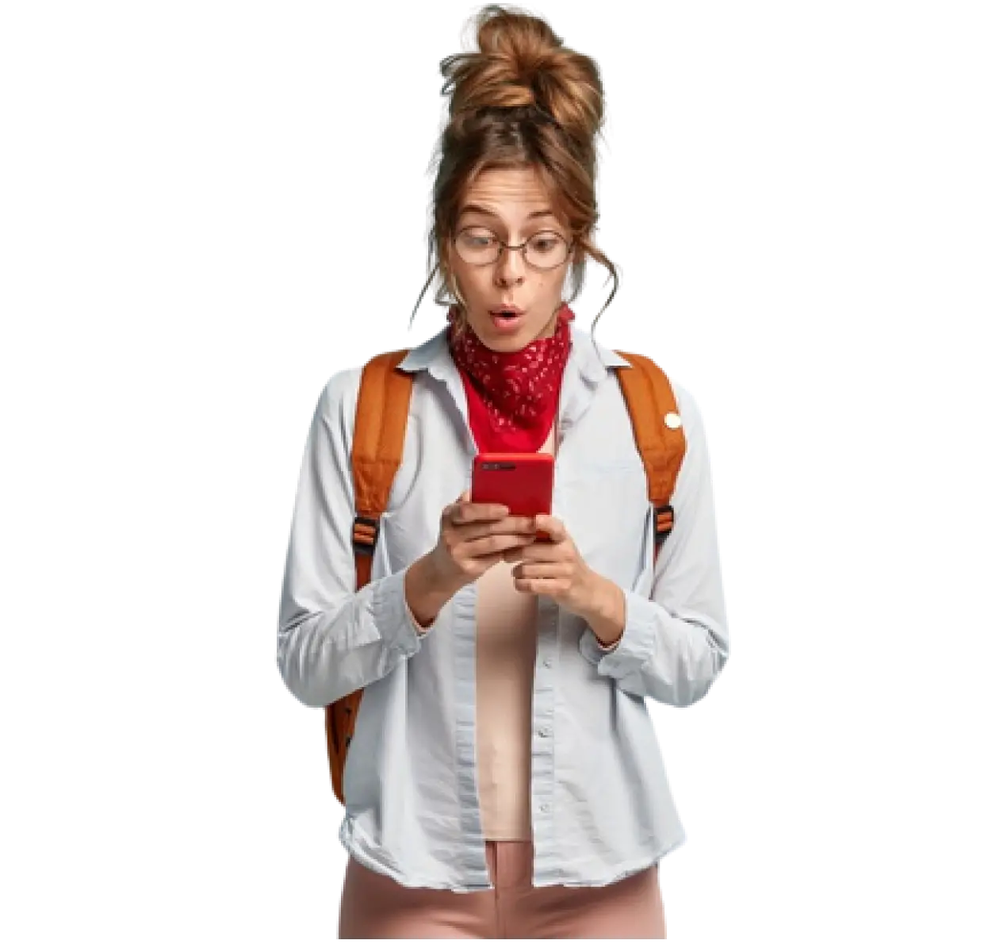
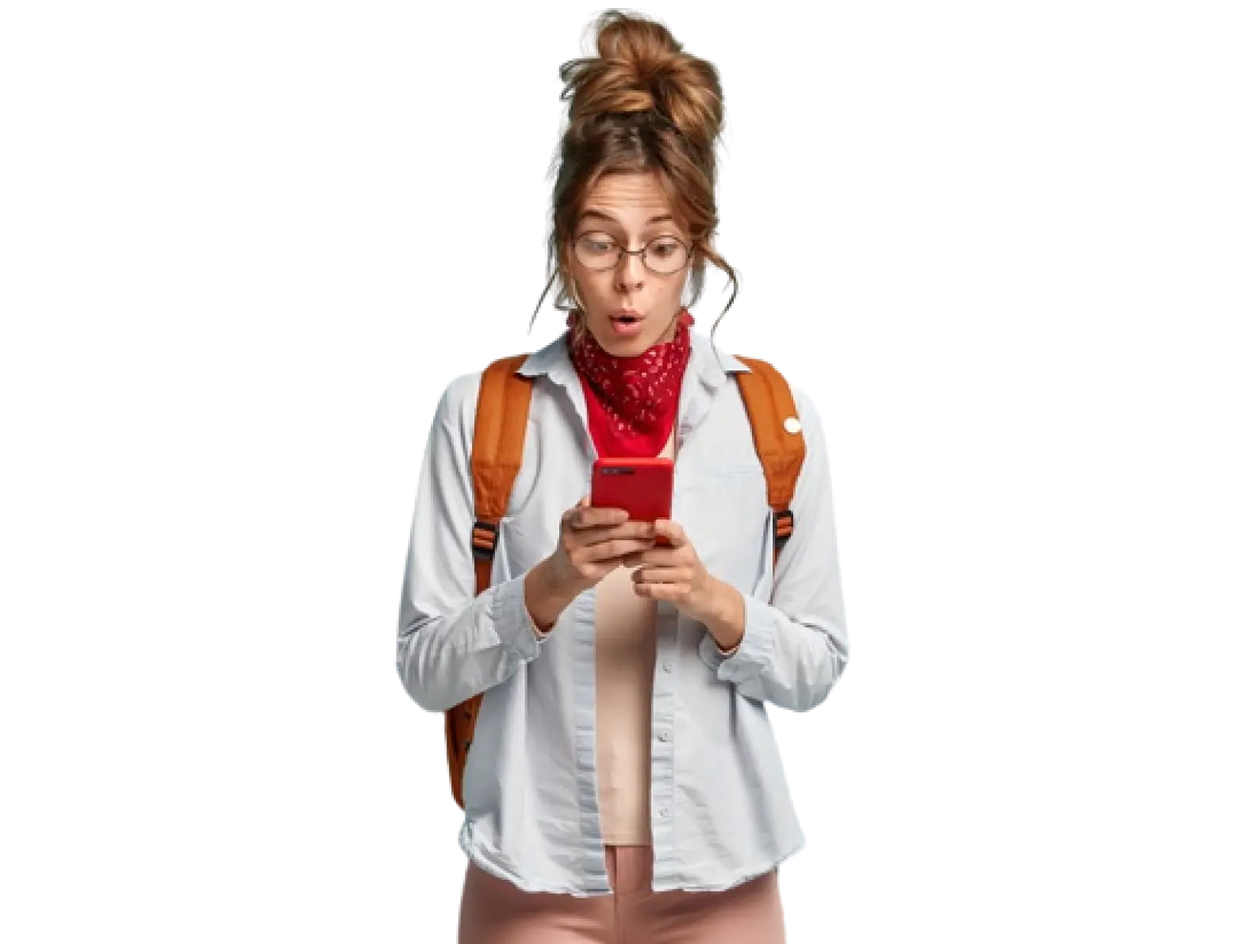
fixed img girl

Changed region(s): [[0.2764, 0.0, 0.737, 1.0]]

diff --git a/build/css/style.min.css b/build/css/style.min.css
@@ -1,2 +1,2 @@
-/*! normalize.css v8.0.1 | MIT License | github.com/necolas/normalize.css */html{line-height:1.15;-webkit-text-size-adjust:100%}details,main{display:block}h1{font-size:2em}hr{-webkit-box-sizing:content-box;box-sizing:content-box;height:0;overflow:visible}code,kbd,pre,samp{font-family:monospace,monospace;font-size:1em}a{background-color:rgba(0,0,0,0);text-decoration:none;color:inherit}abbr[title]{border-bottom:none;text-decoration:underline;-webkit-text-decoration:underline dotted;text-decoration:underline dotted}b,strong{font-weight:bolder}small{font-size:80%}sub,sup{font-size:75%;line-height:0;position:relative;vertical-align:baseline}sub{bottom:-.25em}sup{top:-.5em}img{border-style:none}button,input,optgroup,select,textarea{font-family:inherit;font-size:100%;line-height:1.15;margin:0}button,input{overflow:visible}button,select{text-transform:none}[type=button],[type=reset],[type=submit],button{-webkit-appearance:button}[type=button]::-moz-focus-inner,[type=reset]::-moz-focus-inner,[type=submit]::-moz-focus-inner,button::-moz-focus-inner{border-style:none;padding:0}[type=button]:-moz-focusring,[type=reset]:-moz-focusring,[type=submit]:-moz-focusring,button:-moz-focusring{outline:ButtonText dotted 1px}fieldset{padding:.35em .75em .625em}legend{-webkit-box-sizing:border-box;box-sizing:border-box;color:inherit;display:table;max-width:100%;padding:0;white-space:normal}progress{vertical-align:baseline}textarea{overflow:auto}[type=checkbox],[type=radio]{-webkit-box-sizing:border-box;box-sizing:border-box;padding:0}[type=number]::-webkit-inner-spin-button,[type=number]::-webkit-outer-spin-button{height:auto}[type=search]{-webkit-appearance:textfield;outline-offset:-2px}[type=search]::-webkit-search-decoration{-webkit-appearance:none}::-webkit-file-upload-button{-webkit-appearance:button;font:inherit}summary{display:list-item}[hidden],template{display:none}*,::after,::before{-webkit-box-sizing:border-box;box-sizing:border-box}h1,h2,h3,h4,h5,h6,li,ol,p,ul{margin:0;padding:0}img,svg{width:100%;height:100%;-o-object-fit:cover;object-fit:cover}@font-face{font-family:decorlz;src:local("decorlz"),url(../fonts/decorlz.woff2) format("woff2"),url(../fonts/decorlz.woff) format("woff");font-weight:400;font-style:normal;font-display:swap}@-webkit-keyframes spin{0%{-webkit-transform:rotate(0);transform:rotate(0)}100%{-webkit-transform:rotate(360deg);transform:rotate(360deg)}}@keyframes spin{0%{-webkit-transform:rotate(0);transform:rotate(0)}100%{-webkit-transform:rotate(360deg);transform:rotate(360deg)}}@-webkit-keyframes spin-reverse{0%{-webkit-transform:rotate(calc(-45deg * var(--r)));transform:rotate(calc(-45deg * var(--r)))}100%{-webkit-transform:rotate(calc(-360deg + -45deg * var(--r)));transform:rotate(calc(-360deg + -45deg * var(--r)))}}@keyframes spin-reverse{0%{-webkit-transform:rotate(calc(-45deg * var(--r)));transform:rotate(calc(-45deg * var(--r)))}100%{-webkit-transform:rotate(calc(-360deg + -45deg * var(--r)));transform:rotate(calc(-360deg + -45deg * var(--r)))}}body{margin:0;font-family:Poppins,sans-serif;font-style:normal;font-weight:500;font-size:15px;line-height:26px;color:#7c7c7c;background:#ecf7f3}.container{max-width:1113px;margin:0 auto}.header{position:relative;padding:30px 0;background:#ecf7f3}.header__wrapper{position:relative;display:-webkit-box;display:-ms-flexbox;display:flex;-webkit-box-pack:justify;-ms-flex-pack:justify;justify-content:space-between;-webkit-box-align:center;-ms-flex-align:center;align-items:center}.header__btn{display:inline-block;padding:9px 23px;margin:0;border:0;border-radius:20px;cursor:pointer;-webkit-appearance:none;-moz-appearance:none;appearance:none;display:-webkit-box;display:-ms-flexbox;display:flex;-webkit-box-pack:center;-ms-flex-pack:center;justify-content:center;-webkit-box-align:center;-ms-flex-align:center;align-items:center;background:#48b774;color:#fff;font-size:16px;line-height:24px}.header__btn:hover{-webkit-box-shadow:2px 2px8px rgba(0,0,0,.25);box-shadow:2px 2px8px rgba(0,0,0,.25);-webkit-box-shadow:0 2px 4px rgba(0,0,0,.25);box-shadow:0 2px 4px rgba(0,0,0,.25)}.header__menu-btn{padding:0;margin:0;border:0;background-color:rgba(0,0,0,0);border-radius:0;cursor:pointer;-webkit-appearance:none;-moz-appearance:none;appearance:none;display:none}.logo{display:-webkit-box;display:-ms-flexbox;display:flex;-webkit-box-align:center;-ms-flex-align:center;align-items:center}.logo__icon{width:40px;height:40px;margin-right:8px}.logo__text{font-size:25px;line-height:38px;color:#2d2d2d}.menu{display:-webkit-box;display:-ms-flexbox;display:flex;-webkit-box-pack:justify;-ms-flex-pack:justify;justify-content:space-between;list-style:none;width:365px;height:24px}.menu__link{position:relative;font-weight:400;font-size:16px;line-height:24px;color:#4a4a4a}.menu__link::before{content:"";display:block;pointer-events:none;position:absolute;bottom:-4px;left:-16px;opacity:0;width:21px;height:2px;background:#fb9b69;-webkit-transition:.5s;-o-transition:.5s;transition:.5s}.menu__link:hover.menu__link::before{opacity:1;left:50%;-webkit-transform:translateX(-50%);-ms-transform:translateX(-50%);transform:translateX(-50%);-webkit-transition:.5s;-o-transition:.5s;transition:.5s}.homepage{padding:88px 0 0;overflow:hidden}.homepage__wrapper{position:relative;display:-webkit-box;display:-ms-flexbox;display:flex;-webkit-box-pack:justify;-ms-flex-pack:justify;justify-content:space-between}.homepage__block-text{max-width:597px}.homepage__title{font-weight:700;font-size:48px;line-height:65px;color:#2d2d2d;width:474px;margin-bottom:20px}.homepage__title span{color:#fb9b69}.homepage__description{margin-bottom:30px}.homepage__btn{display:inline-block;padding:9px 23px;margin:0 0 50px;border:0;border-radius:20px;cursor:pointer;-webkit-appearance:none;-moz-appearance:none;appearance:none;display:-webkit-box;display:-ms-flexbox;display:flex;-webkit-box-pack:center;-ms-flex-pack:center;justify-content:center;-webkit-box-align:center;-ms-flex-align:center;align-items:center;background:#48b774;color:#fff;font-size:16px;line-height:24px}.homepage__btn:hover{-webkit-box-shadow:2px 2px8px rgba(0,0,0,.25);box-shadow:2px 2px8px rgba(0,0,0,.25);-webkit-box-shadow:0 2px 4px rgba(0,0,0,.25);box-shadow:0 2px 4px rgba(0,0,0,.25)}.homepage__form{margin-bottom:62px}.form-search{position:relative;width:100%;height:62px;-webkit-box-shadow:0 20px 30px rgba(222,222,222,.25);box-shadow:0 20px 30px rgba(222,222,222,.25);border-radius:100px;overflow:hidden}.form-search__input{padding:21px 6px 22px 40px;width:100%;height:100%;outline:0;border:1px solid transparent;font-weight:400;font-size:16px;line-height:19px;letter-spacing:.01em;border-radius:100px;color:inherit;-webkit-transition:.3s;-o-transition:.3s;transition:.3s}.form-search__input::-webkit-input-placeholder{font-family:Roboto,sans-serif;color:#a2a2a2}.form-search__input::-moz-placeholder{font-family:Roboto,sans-serif;color:#a2a2a2}.form-search__input:-ms-input-placeholder{font-family:Roboto,sans-serif;color:#a2a2a2}.form-search__input::-ms-input-placeholder{font-family:Roboto,sans-serif;color:#a2a2a2}.form-search__input::placeholder{font-family:Roboto,sans-serif;color:#a2a2a2}.form-search__input:hover{border:1px solid #fb9b69;-webkit-transition:.3s;-o-transition:.3s;transition:.3s}.form-search__input:focus{border:1px solid #48b774;-webkit-transition:.3s;-o-transition:.3s;transition:.3s}.form-search__btn{display:inline-block;padding:15px;margin:0;border:0;border-radius:50%;cursor:pointer;-webkit-appearance:none;-moz-appearance:none;appearance:none;width:55px;height:55px;position:absolute;top:50%;right:6px;-webkit-transform:translateY(-50%);-ms-transform:translateY(-50%);transform:translateY(-50%);background:#48b774;fill:#fff;stroke:#fff}.form-search__btn:hover{-webkit-box-shadow:0 2px 4px rgba(0,0,0,.25);box-shadow:0 2px 4px rgba(0,0,0,.25)}.users{display:-webkit-box;display:-ms-flexbox;display:flex;-webkit-box-align:center;-ms-flex-align:center;align-items:center;margin-bottom:20px}.users__avatars{display:-webkit-box;display:-ms-flexbox;display:flex;margin-right:12px}.users__icon{position:relative;width:38px;height:38px;border:3px solid #fff;border-radius:50%}.users__icon:not(:first-child){margin-left:-16px}.users__icon_1{z-index:3}.users__icon_2{z-index:2}.users__icon_3{z-index:1}.users__icon_4{padding:7px;z-index:0;background:#ff8345}.users__link{font-family:Roboto,sans-serif;color:#fd905a}.users__link:hover{border-bottom:1px dotted #48b774}.animate{position:relative;display:-webkit-box;display:-ms-flexbox;display:flex;-webkit-box-pack:center;-ms-flex-pack:center;justify-content:center;width:100%}.animate__circle{position:absolute;top:-25px;right:0;display:-webkit-box;display:-ms-flexbox;display:flex;-webkit-box-pack:center;-ms-flex-pack:center;justify-content:center;-webkit-box-align:center;-ms-flex-align:center;align-items:center;width:450px;height:450px;border:2px solid #e8e8e8;border-radius:50%;list-style:none;-webkit-transform-origin:center;-ms-transform-origin:center;transform-origin:center;-webkit-animation-duration:8s;animation-duration:8s;-webkit-animation-iteration-count:infinite;animation-iteration-count:infinite;-webkit-animation-timing-function:linear;animation-timing-function:linear}.animate__circle-middle{width:280px;height:280px;border-radius:50%;background:#48b774}.animate__flag{position:absolute;left:-15px;-webkit-transform:all .5s;-ms-transform:all .5s;transform:all .5s;width:30px;height:30px;border:5px solid #fff;border-radius:50%;-webkit-transition:.5s;-o-transition:.5s;transition:.5s;-webkit-transform:rotate(calc(45deg * var(--r)));-ms-transform:rotate(calc(45deg * var(--r)));transform:rotate(calc(45deg * var(--r)));-webkit-transform-origin:240px;-ms-transform-origin:240px;transform-origin:240px;scale:0;-webkit-transition-delay:calc(.4s*var(--i));-o-transition-delay:calc(.4s*var(--i));transition-delay:calc(.4s*var(--i))}.animate__flag img{-webkit-filter:drop-shadow(0 10px 30px rgba(148, 148, 148, .1));filter:drop-shadow(0 10px 30px rgba(148, 148, 148, .1));-webkit-transform:rotate(calc(-45deg * var(--r)));-ms-transform:rotate(calc(-45deg * var(--r)));transform:rotate(calc(-45deg * var(--r)));-webkit-transform-origin:center;-ms-transform-origin:center;transform-origin:center;-webkit-animation-duration:8s;animation-duration:8s;-webkit-animation-iteration-count:infinite;animation-iteration-count:infinite;-webkit-animation-timing-function:linear;animation-timing-function:linear}.animate__flag:nth-of-type(2){left:-30px;width:60px;height:60px;-webkit-transform-origin:255px;-ms-transform-origin:255px;transform-origin:255px}.animate__flag:nth-of-type(3),.animate__flag:nth-of-type(4){left:-25px;width:50px;height:50px;-webkit-transform-origin:250px;-ms-transform-origin:250px;transform-origin:250px}.animate__girl-img{position:relative;z-index:6;width:100%;height:100%;margin-right:-180px;margin-bottom:0}.form-err{color:#ea5b5b;position:absolute;left:40px;top:0;font-size:13px}@media screen and (max-width:1193px){.container{max-width:913px}.homepage__block-text{max-width:470px}.homepage__title{font-size:46px}.animate__girl-img{margin-right:0}}@media screen and (max-width:992px){.container{max-width:728px}.menu{width:320px}.homepage{padding:40px 0 0}.homepage__wrapper{-webkit-box-orient:vertical;-webkit-box-direction:normal;-ms-flex-direction:column;flex-direction:column}.homepage__block-text{max-width:100%;margin-bottom:45px}.homepage__title{text-align:center;width:100%}.homepage__btn{margin-right:auto;margin-left:auto}.animate__circle{right:auto}}@media screen and (max-width:768px){.container{max-width:96%;min-width:305px}.header{padding:16px 0}.header__logo .logo__text{display:none}.header__menu-btn{display:block;width:40px;height:40px}.header__menu-btn span{position:relative;display:block;width:100%;height:3px;border-radius:8px;background:#fb9b69;-webkit-transition:.5s;-o-transition:.5s;transition:.5s}.header__menu-btn span::after{position:absolute;top:-8px;left:50%;-webkit-transform:translateX(-50%);-ms-transform:translateX(-50%);transform:translateX(-50%);content:"";display:block;width:80%;height:3px;border-radius:8px;background:#48b774;-webkit-transition:.5s;-o-transition:.5s;transition:.5s}.header__menu-btn span::before{position:absolute;top:8px;left:50%;-webkit-transform:translateX(-50%);-ms-transform:translateX(-50%);transform:translateX(-50%);content:"";display:block;width:80%;height:3px;border-radius:8px;background:#48b774;-webkit-transition:.5s;-o-transition:.5s;transition:.5s}.header__menu-btn_active span{background:rgba(0,0,0,0);-webkit-transition:.5s;-o-transition:.5s;transition:.5s}.header__menu-btn_active span::after{top:50%;-webkit-transform:translate(-50%,-50%) rotate(45deg);-ms-transform:translate(-50%,-50%) rotate(45deg);transform:translate(-50%,-50%) rotate(45deg);-webkit-transition:.5s;-o-transition:.5s;transition:.5s}.header__menu-btn_active span::before{top:50%;-webkit-transform:translate(-50%,-50%) rotate(-45deg);-ms-transform:translate(-50%,-50%) rotate(-45deg);transform:translate(-50%,-50%) rotate(-45deg);-webkit-transition:.5s;-o-transition:.5s;transition:.5s}.menu{position:absolute;top:-200px;left:0;right:0;width:100%;height:168px;-webkit-box-orient:vertical;-webkit-box-direction:normal;-ms-flex-direction:column;flex-direction:column;-webkit-box-pack:space-evenly;-ms-flex-pack:space-evenly;justify-content:space-evenly;-webkit-box-align:center;-ms-flex-align:center;align-items:center;z-index:-1;-webkit-transition:.5s;-o-transition:.5s;transition:.5s;opacity:0;background:#ecf7f3}.menu__link:hover.menu__link::before{left:-2px;-webkit-transform:translate(0,0);-ms-transform:translate(0,0);transform:translate(0,0)}.menu__link::before{opacity:1;left:-2px}.menu_open{top:60px;opacity:1;z-index:2}}@media screen and (max-width:568px){.animate__circle{width:380px;height:380px}.animate__circle-middle{width:220px;height:220px}.animate__flag{-webkit-transform-origin:205px;-ms-transform-origin:205px;transform-origin:205px}.animate__flag:nth-of-type(2){-webkit-transform-origin:210px;-ms-transform-origin:210px;transform-origin:210px}.animate__flag:nth-of-type(3),.animate__flag:nth-of-type(4){-webkit-transform-origin:215px;-ms-transform-origin:215px;transform-origin:215px}}@media screen and (max-width:460px){.animate__circle{width:330px;height:330px}.animate__circle-middle{width:200px;height:200px}.animate__flag{-webkit-transform-origin:180px;-ms-transform-origin:180px;transform-origin:180px}.animate__flag:nth-of-type(2){-webkit-transform-origin:195px;-ms-transform-origin:195px;transform-origin:195px}.animate__flag:nth-of-type(3),.animate__flag:nth-of-type(4){-webkit-transform-origin:190px;-ms-transform-origin:190px;transform-origin:190px}}@media screen and (max-width:390px){.animate__circle{width:240px;height:240px}.animate__circle-middle{width:160px;height:160px}.animate__flag{-webkit-transform-origin:135px;-ms-transform-origin:135px;transform-origin:135px}.animate__flag:nth-of-type(2){-webkit-transform-origin:125px;-ms-transform-origin:125px;transform-origin:125px;width:30px;height:30px}.animate__flag:nth-of-type(3),.animate__flag:nth-of-type(4){-webkit-transform-origin:135px;-ms-transform-origin:135px;transform-origin:135px;width:30px;height:30px}}
+/*! normalize.css v8.0.1 | MIT License | github.com/necolas/normalize.css */html{line-height:1.15;-webkit-text-size-adjust:100%}details,main{display:block}h1{font-size:2em}hr{-webkit-box-sizing:content-box;box-sizing:content-box;height:0;overflow:visible}code,kbd,pre,samp{font-family:monospace,monospace;font-size:1em}a{background-color:rgba(0,0,0,0);text-decoration:none;color:inherit}abbr[title]{border-bottom:none;text-decoration:underline;-webkit-text-decoration:underline dotted;text-decoration:underline dotted}b,strong{font-weight:bolder}small{font-size:80%}sub,sup{font-size:75%;line-height:0;position:relative;vertical-align:baseline}sub{bottom:-.25em}sup{top:-.5em}img{border-style:none}button,input,optgroup,select,textarea{font-family:inherit;font-size:100%;line-height:1.15;margin:0}button,input{overflow:visible}button,select{text-transform:none}[type=button],[type=reset],[type=submit],button{-webkit-appearance:button}[type=button]::-moz-focus-inner,[type=reset]::-moz-focus-inner,[type=submit]::-moz-focus-inner,button::-moz-focus-inner{border-style:none;padding:0}[type=button]:-moz-focusring,[type=reset]:-moz-focusring,[type=submit]:-moz-focusring,button:-moz-focusring{outline:ButtonText dotted 1px}fieldset{padding:.35em .75em .625em}legend{-webkit-box-sizing:border-box;box-sizing:border-box;color:inherit;display:table;max-width:100%;padding:0;white-space:normal}progress{vertical-align:baseline}textarea{overflow:auto}[type=checkbox],[type=radio]{-webkit-box-sizing:border-box;box-sizing:border-box;padding:0}[type=number]::-webkit-inner-spin-button,[type=number]::-webkit-outer-spin-button{height:auto}[type=search]{-webkit-appearance:textfield;outline-offset:-2px}[type=search]::-webkit-search-decoration{-webkit-appearance:none}::-webkit-file-upload-button{-webkit-appearance:button;font:inherit}summary{display:list-item}[hidden],template{display:none}*,::after,::before{-webkit-box-sizing:border-box;box-sizing:border-box}h1,h2,h3,h4,h5,h6,li,ol,p,ul{margin:0;padding:0}img,svg{width:100%;height:100%;-o-object-fit:cover;object-fit:cover}@font-face{font-family:decorlz;src:local("decorlz"),url(../fonts/decorlz.woff2) format("woff2"),url(../fonts/decorlz.woff) format("woff");font-weight:400;font-style:normal;font-display:swap}@-webkit-keyframes spin{0%{-webkit-transform:rotate(0);transform:rotate(0)}100%{-webkit-transform:rotate(360deg);transform:rotate(360deg)}}@keyframes spin{0%{-webkit-transform:rotate(0);transform:rotate(0)}100%{-webkit-transform:rotate(360deg);transform:rotate(360deg)}}@-webkit-keyframes spin-reverse{0%{-webkit-transform:rotate(calc(-45deg * var(--r)));transform:rotate(calc(-45deg * var(--r)))}100%{-webkit-transform:rotate(calc(-360deg + -45deg * var(--r)));transform:rotate(calc(-360deg + -45deg * var(--r)))}}@keyframes spin-reverse{0%{-webkit-transform:rotate(calc(-45deg * var(--r)));transform:rotate(calc(-45deg * var(--r)))}100%{-webkit-transform:rotate(calc(-360deg + -45deg * var(--r)));transform:rotate(calc(-360deg + -45deg * var(--r)))}}body{margin:0;font-family:Poppins,sans-serif;font-style:normal;font-weight:500;font-size:15px;line-height:26px;color:#7c7c7c;background:#ecf7f3}.container{max-width:1113px;margin:0 auto}.header{position:relative;padding:30px 0;background:#ecf7f3}.header__wrapper{position:relative;display:-webkit-box;display:-ms-flexbox;display:flex;-webkit-box-pack:justify;-ms-flex-pack:justify;justify-content:space-between;-webkit-box-align:center;-ms-flex-align:center;align-items:center}.header__btn{display:inline-block;padding:9px 23px;margin:0;border:0;border-radius:20px;cursor:pointer;-webkit-appearance:none;-moz-appearance:none;appearance:none;display:-webkit-box;display:-ms-flexbox;display:flex;-webkit-box-pack:center;-ms-flex-pack:center;justify-content:center;-webkit-box-align:center;-ms-flex-align:center;align-items:center;background:#48b774;color:#fff;font-size:16px;line-height:24px}.header__btn:hover{-webkit-box-shadow:2px 2px8px rgba(0,0,0,.25);box-shadow:2px 2px8px rgba(0,0,0,.25);-webkit-box-shadow:0 2px 4px rgba(0,0,0,.25);box-shadow:0 2px 4px rgba(0,0,0,.25)}.header__menu-btn{padding:0;margin:0;border:0;background-color:rgba(0,0,0,0);border-radius:0;cursor:pointer;-webkit-appearance:none;-moz-appearance:none;appearance:none;display:none}.logo{display:-webkit-box;display:-ms-flexbox;display:flex;-webkit-box-align:center;-ms-flex-align:center;align-items:center}.logo__icon{width:40px;height:40px;margin-right:8px}.logo__text{font-size:25px;line-height:38px;color:#2d2d2d}.menu{display:-webkit-box;display:-ms-flexbox;display:flex;-webkit-box-pack:justify;-ms-flex-pack:justify;justify-content:space-between;list-style:none;width:365px;height:24px}.menu__link{position:relative;font-weight:400;font-size:16px;line-height:24px;color:#4a4a4a}.menu__link::before{content:"";display:block;pointer-events:none;position:absolute;bottom:-4px;left:-16px;opacity:0;width:21px;height:2px;background:#fb9b69;-webkit-transition:.5s;-o-transition:.5s;transition:.5s}.menu__link:hover.menu__link::before{opacity:1;left:50%;-webkit-transform:translateX(-50%);-ms-transform:translateX(-50%);transform:translateX(-50%);-webkit-transition:.5s;-o-transition:.5s;transition:.5s}.homepage{padding:88px 0 0;overflow:hidden}.homepage__wrapper{position:relative;display:-webkit-box;display:-ms-flexbox;display:flex;-webkit-box-pack:justify;-ms-flex-pack:justify;justify-content:space-between}.homepage__block-text{max-width:597px}.homepage__title{font-weight:700;font-size:48px;line-height:65px;color:#2d2d2d;width:474px;margin-bottom:20px}.homepage__title span{color:#fb9b69}.homepage__description{margin-bottom:30px}.homepage__btn{display:inline-block;padding:9px 23px;margin:0 0 50px;border:0;border-radius:20px;cursor:pointer;-webkit-appearance:none;-moz-appearance:none;appearance:none;display:-webkit-box;display:-ms-flexbox;display:flex;-webkit-box-pack:center;-ms-flex-pack:center;justify-content:center;-webkit-box-align:center;-ms-flex-align:center;align-items:center;background:#48b774;color:#fff;font-size:16px;line-height:24px}.homepage__btn:hover{-webkit-box-shadow:2px 2px8px rgba(0,0,0,.25);box-shadow:2px 2px8px rgba(0,0,0,.25);-webkit-box-shadow:0 2px 4px rgba(0,0,0,.25);box-shadow:0 2px 4px rgba(0,0,0,.25)}.homepage__form{margin-bottom:62px}.form-search{position:relative;width:100%;height:62px;-webkit-box-shadow:0 20px 30px rgba(222,222,222,.25);box-shadow:0 20px 30px rgba(222,222,222,.25);border-radius:100px;overflow:hidden}.form-search__input{padding:21px 6px 22px 40px;width:100%;height:100%;outline:0;border:1px solid transparent;font-weight:400;font-size:16px;line-height:19px;letter-spacing:.01em;border-radius:100px;color:inherit;-webkit-transition:.3s;-o-transition:.3s;transition:.3s}.form-search__input::-webkit-input-placeholder{font-family:Roboto,sans-serif;color:#a2a2a2}.form-search__input::-moz-placeholder{font-family:Roboto,sans-serif;color:#a2a2a2}.form-search__input:-ms-input-placeholder{font-family:Roboto,sans-serif;color:#a2a2a2}.form-search__input::-ms-input-placeholder{font-family:Roboto,sans-serif;color:#a2a2a2}.form-search__input::placeholder{font-family:Roboto,sans-serif;color:#a2a2a2}.form-search__input:hover{border:1px solid #fb9b69;-webkit-transition:.3s;-o-transition:.3s;transition:.3s}.form-search__input:focus{border:1px solid #48b774;-webkit-transition:.3s;-o-transition:.3s;transition:.3s}.form-search__btn{display:inline-block;padding:15px;margin:0;border:0;border-radius:50%;cursor:pointer;-webkit-appearance:none;-moz-appearance:none;appearance:none;width:55px;height:55px;position:absolute;top:50%;right:6px;-webkit-transform:translateY(-50%);-ms-transform:translateY(-50%);transform:translateY(-50%);background:#48b774;fill:#fff;stroke:#fff}.form-search__btn:hover{-webkit-box-shadow:0 2px 4px rgba(0,0,0,.25);box-shadow:0 2px 4px rgba(0,0,0,.25)}.users{display:-webkit-box;display:-ms-flexbox;display:flex;-webkit-box-align:center;-ms-flex-align:center;align-items:center;margin-bottom:20px}.users__avatars{display:-webkit-box;display:-ms-flexbox;display:flex;margin-right:12px}.users__icon{position:relative;width:38px;height:38px;border:3px solid #fff;border-radius:50%}.users__icon:not(:first-child){margin-left:-16px}.users__icon_1{z-index:3}.users__icon_2{z-index:2}.users__icon_3{z-index:1}.users__icon_4{padding:7px;z-index:0;background:#ff8345}.users__link{font-family:Roboto,sans-serif;color:#fd905a}.users__link:hover{border-bottom:1px dotted #48b774}.animate{position:relative;display:-webkit-box;display:-ms-flexbox;display:flex;-webkit-box-pack:center;-ms-flex-pack:center;justify-content:center;width:100%}.animate__circle{position:absolute;top:-25px;right:0;display:-webkit-box;display:-ms-flexbox;display:flex;-webkit-box-pack:center;-ms-flex-pack:center;justify-content:center;-webkit-box-align:center;-ms-flex-align:center;align-items:center;width:450px;height:450px;border:2px solid #e8e8e8;border-radius:50%;list-style:none;-webkit-transform-origin:center;-ms-transform-origin:center;transform-origin:center;-webkit-animation-duration:8s;animation-duration:8s;-webkit-animation-iteration-count:infinite;animation-iteration-count:infinite;-webkit-animation-timing-function:linear;animation-timing-function:linear}.animate__circle-middle{width:280px;height:280px;border-radius:50%;background:#48b774}.animate__flag{position:absolute;left:-15px;-webkit-transform:all .5s;-ms-transform:all .5s;transform:all .5s;width:30px;height:30px;border:5px solid #fff;border-radius:50%;-webkit-transition:.5s;-o-transition:.5s;transition:.5s;-webkit-transform:rotate(calc(45deg * var(--r)));-ms-transform:rotate(calc(45deg * var(--r)));transform:rotate(calc(45deg * var(--r)));-webkit-transform-origin:240px;-ms-transform-origin:240px;transform-origin:240px;scale:0;-webkit-transition-delay:calc(.4s*var(--i));-o-transition-delay:calc(.4s*var(--i));transition-delay:calc(.4s*var(--i))}.animate__flag img{-webkit-filter:drop-shadow(0 10px 30px rgba(148, 148, 148, .1));filter:drop-shadow(0 10px 30px rgba(148, 148, 148, .1));-webkit-transform:rotate(calc(-45deg * var(--r)));-ms-transform:rotate(calc(-45deg * var(--r)));transform:rotate(calc(-45deg * var(--r)));-webkit-transform-origin:center;-ms-transform-origin:center;transform-origin:center;-webkit-animation-duration:8s;animation-duration:8s;-webkit-animation-iteration-count:infinite;animation-iteration-count:infinite;-webkit-animation-timing-function:linear;animation-timing-function:linear}.animate__flag:nth-of-type(2){left:-30px;width:60px;height:60px;-webkit-transform-origin:255px;-ms-transform-origin:255px;transform-origin:255px}.animate__flag:nth-of-type(3),.animate__flag:nth-of-type(4){left:-25px;width:50px;height:50px;-webkit-transform-origin:250px;-ms-transform-origin:250px;transform-origin:250px}.animate__girl-img{position:relative;z-index:6;width:100%;height:100%;margin-right:-180px;background:url(../img/girl.webp) center bottom/cover no-repeat;margin-bottom:0}.form-err{color:#ea5b5b;position:absolute;left:40px;top:0;font-size:13px}@media screen and (max-width:1193px){.container{max-width:913px}.homepage__block-text{max-width:470px}.homepage__title{font-size:46px}.animate__girl-img{margin-right:0}}@media screen and (max-width:992px){.container{max-width:728px}.menu{width:320px}.homepage{padding:40px 0 0}.homepage__wrapper{-webkit-box-orient:vertical;-webkit-box-direction:normal;-ms-flex-direction:column;flex-direction:column}.homepage__block-text{max-width:100%;margin-bottom:45px}.homepage__title{text-align:center;width:100%}.homepage__btn{margin-right:auto;margin-left:auto}.animate__circle{right:auto}.animate__girl-img{height:547px}}@media screen and (max-width:768px){.container{max-width:96%;min-width:305px}.header{padding:16px 0}.header__logo .logo__text{display:none}.header__menu-btn{display:block;width:40px;height:40px}.header__menu-btn span{position:relative;display:block;width:100%;height:3px;border-radius:8px;background:#fb9b69;-webkit-transition:.5s;-o-transition:.5s;transition:.5s}.header__menu-btn span::after{position:absolute;top:-8px;left:50%;-webkit-transform:translateX(-50%);-ms-transform:translateX(-50%);transform:translateX(-50%);content:"";display:block;width:80%;height:3px;border-radius:8px;background:#48b774;-webkit-transition:.5s;-o-transition:.5s;transition:.5s}.header__menu-btn span::before{position:absolute;top:8px;left:50%;-webkit-transform:translateX(-50%);-ms-transform:translateX(-50%);transform:translateX(-50%);content:"";display:block;width:80%;height:3px;border-radius:8px;background:#48b774;-webkit-transition:.5s;-o-transition:.5s;transition:.5s}.header__menu-btn_active span{background:rgba(0,0,0,0);-webkit-transition:.5s;-o-transition:.5s;transition:.5s}.header__menu-btn_active span::after{top:50%;-webkit-transform:translate(-50%,-50%) rotate(45deg);-ms-transform:translate(-50%,-50%) rotate(45deg);transform:translate(-50%,-50%) rotate(45deg);-webkit-transition:.5s;-o-transition:.5s;transition:.5s}.header__menu-btn_active span::before{top:50%;-webkit-transform:translate(-50%,-50%) rotate(-45deg);-ms-transform:translate(-50%,-50%) rotate(-45deg);transform:translate(-50%,-50%) rotate(-45deg);-webkit-transition:.5s;-o-transition:.5s;transition:.5s}.menu{position:absolute;top:-200px;left:0;right:0;width:100%;height:168px;-webkit-box-orient:vertical;-webkit-box-direction:normal;-ms-flex-direction:column;flex-direction:column;-webkit-box-pack:space-evenly;-ms-flex-pack:space-evenly;justify-content:space-evenly;-webkit-box-align:center;-ms-flex-align:center;align-items:center;z-index:-1;-webkit-transition:.5s;-o-transition:.5s;transition:.5s;opacity:0;background:#ecf7f3}.menu__link:hover.menu__link::before{left:-2px;-webkit-transform:translate(0,0);-ms-transform:translate(0,0);transform:translate(0,0)}.menu__link::before{opacity:1;left:-2px}.menu_open{top:60px;opacity:1;z-index:2}}@media screen and (max-width:568px){.animate__circle{width:380px;height:380px}.animate__circle-middle{width:220px;height:220px}.animate__flag{-webkit-transform-origin:205px;-ms-transform-origin:205px;transform-origin:205px}.animate__flag:nth-of-type(2){-webkit-transform-origin:210px;-ms-transform-origin:210px;transform-origin:210px}.animate__flag:nth-of-type(3),.animate__flag:nth-of-type(4){-webkit-transform-origin:215px;-ms-transform-origin:215px;transform-origin:215px}}@media screen and (max-width:460px){.animate__circle{width:330px;height:330px}.animate__circle-middle{width:200px;height:200px}.animate__flag{-webkit-transform-origin:180px;-ms-transform-origin:180px;transform-origin:180px}.animate__flag:nth-of-type(2){-webkit-transform-origin:195px;-ms-transform-origin:195px;transform-origin:195px}.animate__flag:nth-of-type(3),.animate__flag:nth-of-type(4){-webkit-transform-origin:190px;-ms-transform-origin:190px;transform-origin:190px}.animate__girl-img{height:480px}}@media screen and (max-width:390px){.animate__circle{top:-15px;width:240px;height:240px}.animate__circle-middle{width:140px;height:140px}.animate__flag{-webkit-transform-origin:135px;-ms-transform-origin:135px;transform-origin:135px}.animate__flag:nth-of-type(2){-webkit-transform-origin:125px;-ms-transform-origin:125px;transform-origin:125px;width:30px;height:30px}.animate__flag:nth-of-type(3),.animate__flag:nth-of-type(4){-webkit-transform-origin:135px;-ms-transform-origin:135px;transform-origin:135px;width:30px;height:30px}.animate__girl-img{height:330px}}
 /*# sourceMappingURL=../sourcemaps/style.min.css.map */

diff --git a/src/sass/_media.sass b/src/sass/_media.sass
@@ -34,6 +34,8 @@
   .animate
     &__circle
       right: auto
+    &__girl-img
+      height: 547px
 
 @media screen and (max-width: 768px)
   .container
@@ -152,14 +154,18 @@
       &:nth-of-type(3),&:nth-of-type(4)
         transform-origin: 190px
 
+    &__girl-img
+      height: 480px
+
 @media screen and (max-width: 390px)
   .animate
     &__circle
+      top: -15px
       width: 240px
       height: 240px
     &__circle-middle
-      width: 160px
-      height: 160px
+      width: 140px
+      height: 140px
     &__flag
       transform-origin: 135px
       &:nth-of-type(2)
@@ -170,3 +176,5 @@
         transform-origin: 135px
         width: 30px
         height: 30px
+    &__girl-img
+      height: 330px

diff --git a/build/index.html b/build/index.html
@@ -150,9 +150,7 @@
                 </li>
               </ul>
               <!-- /.animate__circle -->
-              <div class="animate__girl-img">
-                <img src="img/girl.webp" alt="girl photo" />
-              </div>
+              <div class="animate__girl-img"></div>
               <!-- /.animate__girl-img -->
             </div>
             <!-- /.homepage__animated-block -->

diff --git a/src/index.html b/src/index.html
@@ -86,9 +86,7 @@
                 </li>
               </ul>
               <!-- /.animate__circle -->
-              <div class="animate__girl-img">
-                <img src="img/girl.webp" alt="girl photo" />
-              </div>
+              <div class="animate__girl-img"></div>
               <!-- /.animate__girl-img -->
             </div>
             <!-- /.homepage__animated-block -->

diff --git a/src/sass/blocks/_homapage.sass b/src/sass/blocks/_homapage.sass
@@ -173,6 +173,7 @@
     width: 100%
     height: 100%
     margin-right: -180px
+    background: url(../img/girl.webp) no-repeat center bottom /cover
     margin-bottom: 0
 
 .form-err
